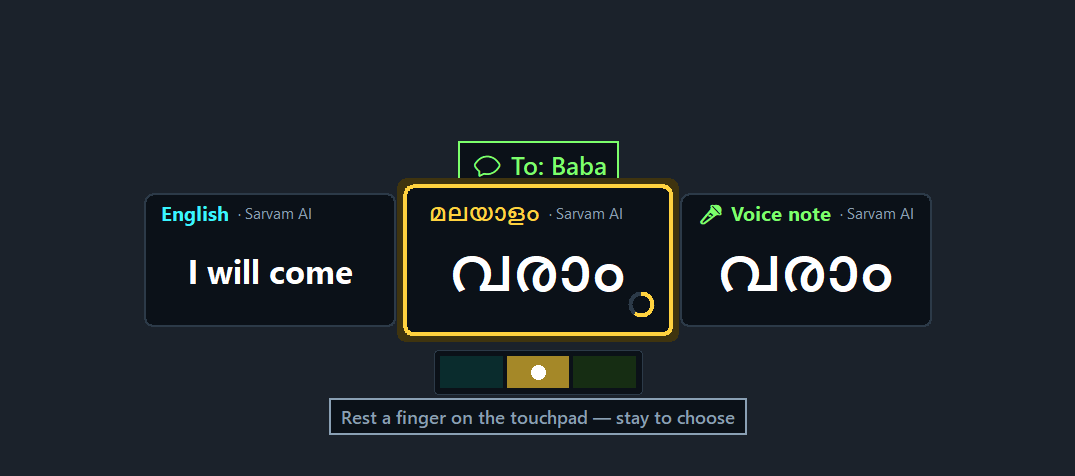
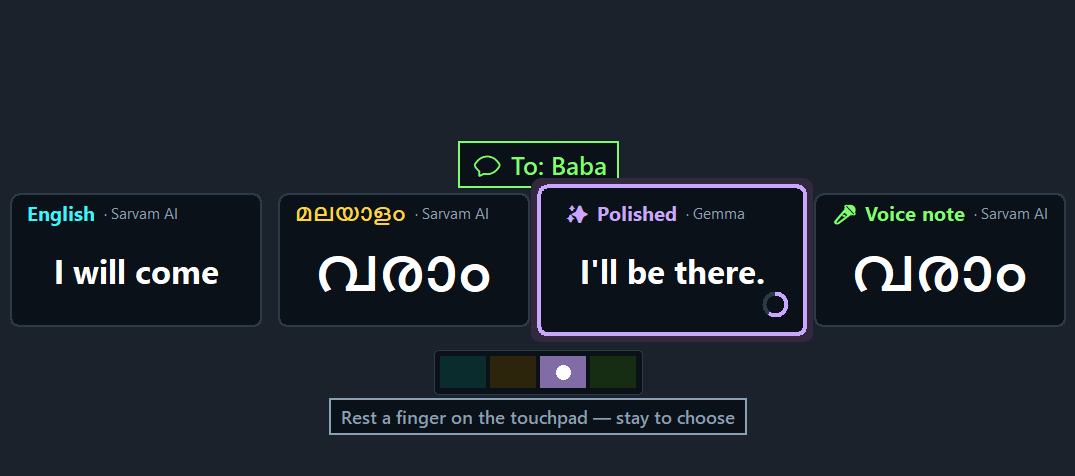
WhatsApp: optional Polished card - same meaning, slightly fuller wording
Gemma rewrites the English option a little more naturally, keeping the
subject and meaning; nothing is added (no facts, reasons, feelings), and
one- or two-word messages are never polished. Shown only when it helps.

diff --git a/tests/test_writer.py b/tests/test_writer.py
@@ -4,11 +4,15 @@ import threading
 import time
 
 threading_Thread = threading.Thread  # the real one, before tests swap in an inline version
+_real_polish = None  # set below, after imports
 
 from PIL import Image
 
 from glide import actions, gestures, handwriting, sarvam, writer
 from tests.test_engine import make_engine, lift
+
+_real_polish = writer.polish_message
+writer.polish_message = lambda text: None  # no network in tests; test_polished_card checks it
 
 
 def two(eng, x=0.5, y=0.5):
@@ -304,6 +308,7 @@ def test_slant_swipes_pick_the_app():
     w, sent = _choosing_writer()
     _swipe(w, 0.3, 0.5, 0.8, 0.52)            # flat swipe: nothing
     assert sent == [] and w.mode == "choosing"
+    writer.SEND_ROW_ENABLED = False           # back to parked for the tests that follow
 
 
 def test_do_it_card_runs_agent():
@@ -320,6 +325,31 @@ def test_do_it_card_runs_agent():
     w.feed([{"id": 0, "x": 0.9, "y": 0.5, "tip": True}], 1.6, time.time())
     w.feed([{"id": 0, "x": 0.9, "y": 0.5, "tip": True}], 1.6, time.time() + writer.DWELL + 0.1)
     assert goals == ["didi varam"] and said == ["done"] and not w.active
+
+
+def test_polished_card():
+    handwriting.ask_json = lambda prompt: {"polished": "Okay, I'll come."}
+    assert _real_polish("I will come") == "Okay, I'll come."
+    assert _real_polish("ok") is None                       # too short to polish safely
+    handwriting.ask_json = lambda prompt: {"polished": "I will come"}
+    assert _real_polish("I will come") is None              # nothing gained
+    handwriting.ask_json = lambda prompt: {"polished": "x " * 60}
+    assert _real_polish("I will come") is None              # grew too much to trust
+    from glide import agent
+    agent.open_chat = lambda contact, status: None
+    writer.in_whatsapp_web = lambda: True
+    writer.threading.Thread = _InlineThread
+    writer.polish_message = lambda text: "Okay, I'll come."
+    sarvam.manglish_to_malayalam = lambda t: "വരാം"
+    sarvam.translate = lambda t, s, d: "I will come"
+    handwriting.recognise = lambda png: {"text": "Baba - varaam", "script": "latin", "language": "manglish"}
+    eng, rec = make_engine({})
+    w = eng.writer
+    w.start((0, 0))
+    w._read([[(0, 0), (1, 1)]])
+    assert [label for label, _ in w.choices] == ["English", writer.MAL, writer.POLISHED, writer.VOICE], w.choices
+    writer.polish_message = lambda text: None
+    writer.in_whatsapp_web = lambda: False
 
 
 def test_hyphen_forms():
@@ -369,3 +399,5 @@ if __name__ == "__main__":
     print("ok slant swipes")
     test_hyphen_forms()
     print("ok hyphen forms")
+    test_polished_card()
+    print("ok polished card")

diff --git a/glide/writer.py b/glide/writer.py
@@ -137,6 +137,36 @@ Rules:
 Reply with ONLY JSON: {{"subject": "...", "body": "..."}}"""
 
 
+POLISH_PROMPT = """Make this short chat message sound natural and complete, in English.
+Message: "{text}"
+Rules:
+- Keep exactly the same meaning: who does what, and when. Keep the same subject ("it" stays
+  "it", "I" stays "I").
+- Do NOT add facts, reasons, times, places, names, greetings, emojis, questions, offers,
+  feelings or extra enthusiasm ("sounds good", "so much").
+- Add at most a few small words so it reads like a normal message (e.g. "I will come" ->
+  "Okay, I'll come.").
+Reply with ONLY JSON: {{"polished": "..."}}"""
+
+POLISHED = "✨ Polished"
+
+
+def polish_message(text):
+    """A slightly fuller, natural version of a WhatsApp message, same meaning. None if not useful."""
+    if len(text.split()) < 3:
+        return None  # "ok", "thanks": too short to polish without inventing meaning
+    try:
+        out = handwriting.ask_json(POLISH_PROMPT.format(text=text)) or {}
+        polished = (out.get("polished") or "").strip()
+    except Exception:
+        actions.log_error("polish")
+        return None
+    plain = lambda t: "".join(ch for ch in t.lower() if ch.isalnum())  # noqa: E731
+    if not polished or plain(polished) == plain(text) or len(polished) > 3 * len(text) + 25:
+        return None  # nothing gained, or it grew too much to trust
+    return polished
+
+
 def tidy_mail(text):
     """(subject, body): the text tidied into an email without adding any content.
     Falls back to the text as written if the AI isn't available."""
@@ -694,7 +724,12 @@ class Writer:
                 result["language"] = "unknown"
         typed = build_choices(result)
         if self.in_whatsapp:
-            # in WhatsApp Web: offer a Sarvam voice note (Malayalam if there is a Malayalam option)
+            # in WhatsApp Web: a polished English version (same meaning, only if it helps), then a
+            # Sarvam voice note (Malayalam if there is a Malayalam option)
+            english = next((t for label, t in typed if label == ENG), None)
+            polished = polish_message(english) if english else None
+            if polished:
+                typed = typed + [(POLISHED, polished)]
             mal = next((t for label, t in typed if label == MAL), None)
             typed = typed + [(VOICE, mal or result["text"])]
         sends, targets = build_sends(typed, result["text"]) if SEND_ROW_ENABLED else ([], {})

diff --git a/glide/overlay.py b/glide/overlay.py
@@ -218,7 +218,8 @@ class Overlay:
         return self.canvas.create_polygon(pts, smooth=True, **kw)
 
     CARD_COLORS = {"As written": "#39f5ff", "English": "#39f5ff", "Translation": "#ff6fd8",
-                   "Or": "#8aa0b4", "\U0001F3A4 Voice note": "#7cff6b", "⚡ Do it": "#ffb84d"}
+                   "Or": "#8aa0b4", "\U0001F3A4 Voice note": "#7cff6b", "⚡ Do it": "#ffb84d",
+                   "✨ Polished": "#c9a7ff"}
 
     def _card_color(self, label):
         if label.startswith("\U0001F4AC"):
@@ -284,6 +285,8 @@ class Overlay:
             if i < wr.n_type and text == wr.written:  # what you wrote, read by Gemma
                 from .handwriting import last_model, model_name
                 badge = "· " + model_name(last_model)
+            elif label == "✨ Polished":  # same meaning, smoother wording, by Gemma
+                badge = "· Gemma"
             elif i < wr.n_type:  # converted by Sarvam AI (Arabic: by Gemma, Sarvam has no Arabic)
                 arabic = any("" <= ch <= "ۿ" for ch in wr.written)
                 badge = "· Gemma" if arabic else "· Sarvam AI"

diff --git a/README.md b/README.md
@@ -36,9 +36,13 @@ Built overnight at **HackaThoni 2026** on a houseboat in Alappuzha ·
 | Hold still in a **corner**, then lift | ↖ all windows · ↗ switch app · ↙ desktop · ↘ right-click |
 | Slide along an **edge** | left = volume · right = brightness · top = browser tabs |
 | Hold **two fingers**, write one word at a time, stop 2 s | Typed at the cursor, in the language you pick |
-| …in **WhatsApp Web**: `Baba - varaam` | Opens Baba's chat → sends *"I will come"* / *വരാം* / a **🎤 Malayalam voice note** |
+| …in **WhatsApp Web**: `Baba - varaam` | Opens Baba's chat → sends *"I will come"* / *വരാം* / **✨ "I'll be there."** / a **🎤 Malayalam voice note** |
 | …in **Gmail**: `ammu - report sent` | Mail to **ammu@gmail.com**, subject + wording tidied, nothing invented |
 | **Esc** | Cancel anything, including a send that's counting down |
+
+**✨ Polished** is an optional card: the same message, a little fuller and more natural, with the
+same subject and meaning — no added facts, reasons or feelings, and never offered for one- or
+two-word messages, where polishing would mean guessing.
 
 Every send has a **3-second "touch to cancel" countdown**. A hyphen after the first word picks a
 new person; without it the message continues to the same person.
